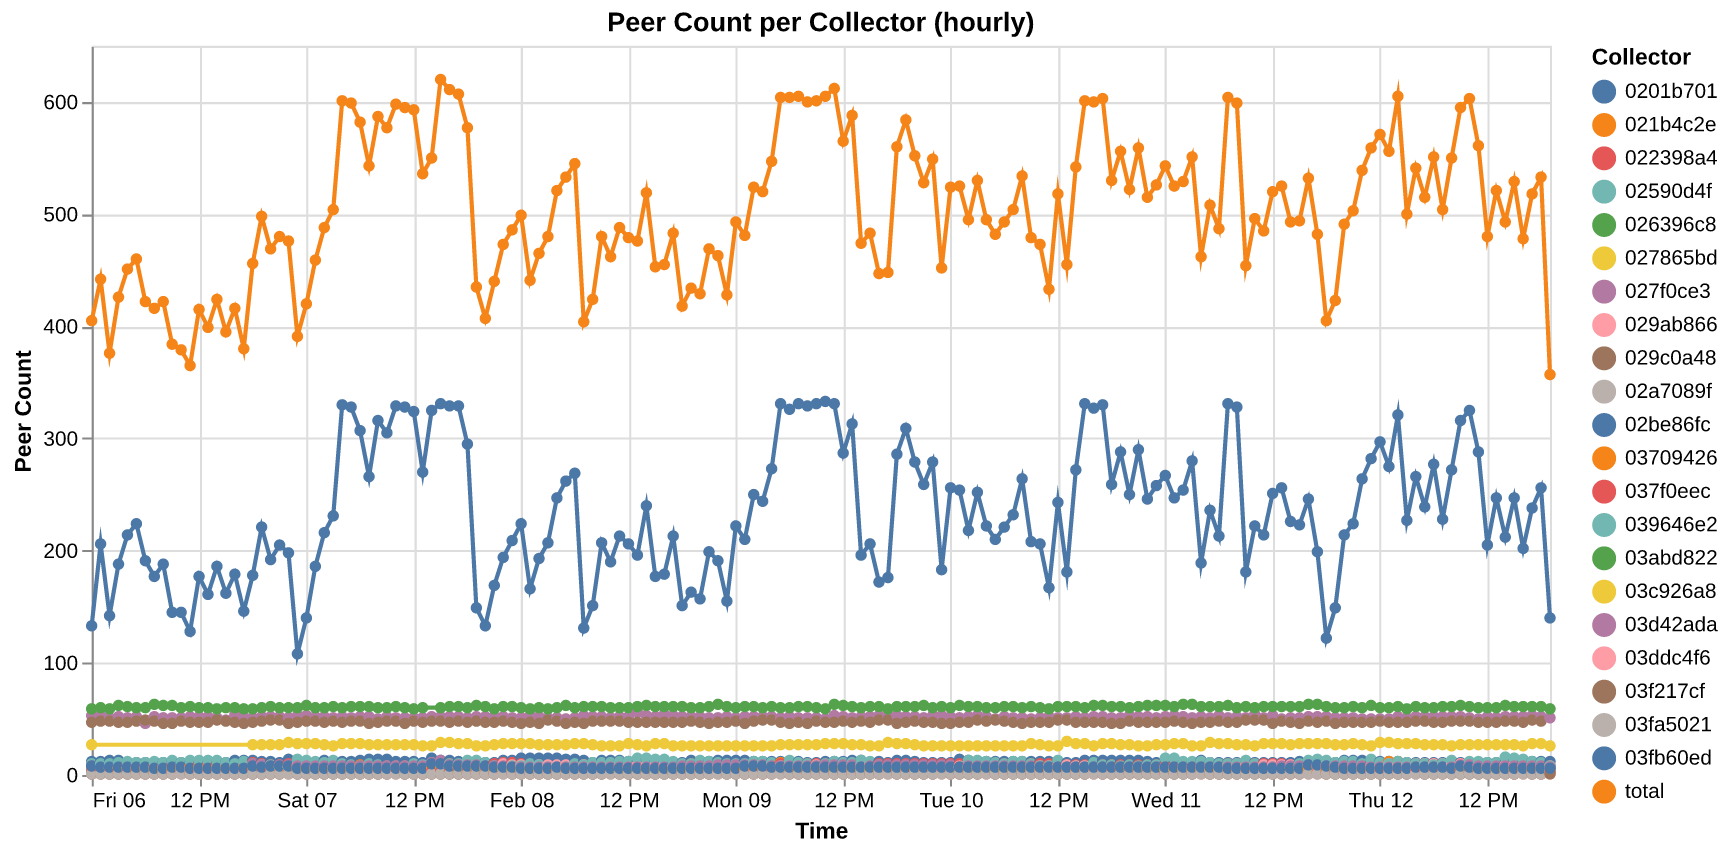
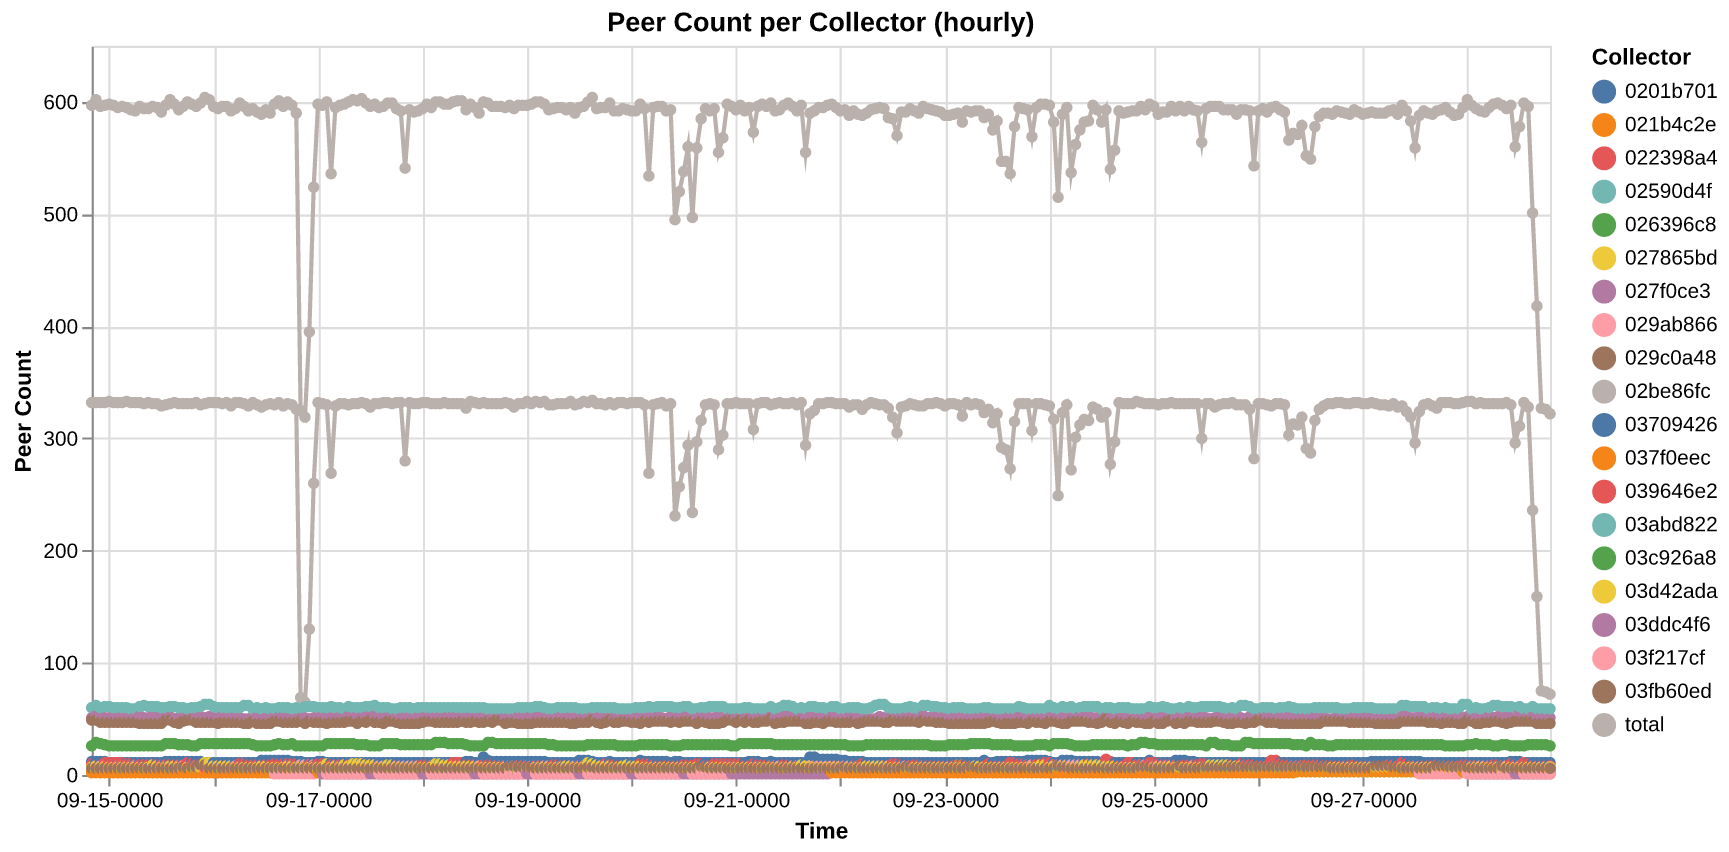
doc: update README + figures

Changed region(s): [[0.0312, 0.0915, 0.9994, 0.946]]

diff --git a/README.md b/README.md
@@ -1,108 +1,125 @@
 # Gossip Observer
 
 A project to collect LN gossip traffic and compute useful metrics to inform a set-reconciliation based protocol (Erlay-like) to replace message flooding.
+This project is inspired by earlier measurements of the LN gossip network<sup>[[1]](#ref-1)</sup>, simulations of alternative gossip behavior (spanning tree, set reconciliation)<sup>[[2]](#ref-2)</sup>, and work on adapting Minisketch for LN gossip<sup>[[3]](#ref-3)</sup>.
 
-This project is inspired by [earlier work](https://arxiv.org/abs/2205.12737v1) on measuring properties of the LN gossip network, and [more recent work](https://endothermic.dev/p/magical-minisketch) on adapting Minisketch for LN gossip messages.
+We've run ~20 collectors since February 2026. The collected data is [on Zenodo](https://doi.org/10.5281/zenodo.23111325),
+and is also used to compute various metrics you can find at <https://gossip-observer.jharveyb.xyz>. In parallel, work on a new gossip protocol is happening in this [draft BOLT](https://github.com/jharveyb/bolts/blob/gossip_minisketch_draft/bolt-gossip-minisketch.md) document; feedback welcome.
+
+## Data
+
+There are multiple options for accessing this dataset.
+
+- **Zenodo** (updated monthly): <https://doi.org/10.5281/zenodo.23111325>. 2026-02-05 to 2026-09-30, ~133 GB of compressed Parquet, one ZIP per table per month.
+- **S3 bucket** (updated daily): <https://observer-data.jharveyb.xyz/>, updated automatically and files are per-table per-day Parquet. Also stores the dumps of the collector's gossip graphs. Contact me for read-only credentials (Open an issue! Or use another channel).
+- **Metrics** (updated ad-hoc): <https://gossip-observer.jharveyb.xyz>. Convergence, unique message rates, bandwidth, channel open/close stats, graph size, anomalies, and more over 1-90 day windows. There are some CSVs here you can pull to get the input data for the figures.
+
+In general, collector nodes record the timestamp and sending peer of a received message, plus the decrypted message bytes.
+
+There are 5 tables: `timings` (one row per collector/peer/message receipt, µs timestamps; ~90% of the data), `messages` (raw bytes),
+`metadata` (message type, size, SCID, etc.), `message_hashes` (hash with and without timestamp field), and `message_first_seen`. `collectors.csv` lists our collectors and the channels they own.
+
+Schema, file layout, and query gotchas: [analysis/README.md](analysis/README.md). Packet captures of collector connections can be arranged, on request.
+
+If you use the data, please cite it; BibTeX is [below](#citing).
+For earlier gossip archives without per-peer timing, see the lnresearch topology dataset<sup>[[1]](#ref-1)</sup>. I also have comparable graph snapshots, but not published on Zenodo currently.
+
+## Results
+
+See the [metrics site](https://gossip-observer.jharveyb.xyz) for current numbers. Some highlights from the two weeks of 2026-09-15 to 2026-09-28,
+across 19 collectors with ~590 peer connections total:
+
+We received ~394k unique gossip messages per day, for a total size of ~85 MB/day (including signatures).
+
+### How long did it take a message to reach our peers?
+
+Delay from first receipt at any collector, capped at 1 hour, for messages sent to us by at least 100 peers. "Observer" is gossip created by us, from our own collectors' channels.
+The median is 140 s overall; node announcements are the slowest at 216 s.
+
+![Propagation Delay](analysis/diagrams/prop_delay_outer.png)
+
+### Over all SCIDs, how many channel updates per day were related to that SCID?
+
+87 of ~38k SCIDs (0.2%) averaged more than 50 updates/day, and sent 17.6% of all channel updates.
+
+![Updates per SCID](analysis/diagrams/scid_msg_count.png)
+
+Our first 23.5-hour run (Sept 2025, discussed on [Delving Bitcoin](https://delvingbitcoin.org/t/gossip-observer-new-project-to-monitor-the-lightning-p2p-network/2105)) is on the [`exported_data` branch](https://github.com/jharveyb/gossip_observer/tree/exported_data/data/mainnet/gossip_archives/dump_0926T195046), with charts in `query_results/0926T195046/`.
 
 ## Architecture
 
 ```mermaid
 graph TB
-    subgraph "Observer Node(s)"
-        C1[Collector]
+    subgraph "Observer Nodes"
+        C1[Collectors]
     end
-    
+
     subgraph "Data Pipeline"
         N[NATS Jetstream]
         A[Archiver]
-        D[DuckDB]
+        T[TimescaleDB]
     end
-    
-    subgraph "Lightning Network"
-        LN[P2P Gossip Network]
+
+    subgraph "Storage"
+        S3[Garage cluster]
+        Z[Zenodo]
     end
-    
+
+    LN[LN P2P Gossip Network]
+    CTRL[Controller]
+    M[Metrics site]
+
     LN <--> C1
-    
-    C1 -->|Tailscale| N
-    
+    CTRL <-->|Collector->Peer assignments| C1
+
+    C1 -->|Annotated messages| N
+    CTRL -->|Collector graph snapshots| S3
+
     N -->|Tailscale| A
-    A --> D
-    
+
+    A --> T
+    A -->|daily Parquet export| S3
+
+    S3 -->|monthly| Z
+    S3 --> M
+
     style C1 fill:#f9a,color:#fff
     style N fill:#bbf,color:#fff
-    style D fill:#bfb,color:#fff
+    style T fill:#bdb,color:#fff
 ```
 
-- The collector is a daemon that runs a forked version of ldk-node which does not forward gossip
-(it should still reply to gossip queries). It collects to a random set of nodes, and then forwards
-gossip messages to a NATS server. It runs for a fixed time period, set via config file.
+- The collector embeds a fork of ldk-node that logs every gossip message it receives with the sending peer and receive timestamp,
+and exports those to NATS. Some collectors have a channel, so we can watch our own gossip propagate by updating those channel fees regularly and generating new gossip messages.
 
-- The archiver applies some basic config to an already-running NATS server, creates a DuckDB database
-for storing gossip data from the collector, and batch wrties said data to the DB. The archiver MUST
-be started before the collector.
+- The controller assigns peers to collectors. Peers are spread across communities of the public graph (generated using nested SBM,
+see `query_results/`) rather than just the biggest nodes. It also tracks collector health and snapshots each collector's graph for archival.
 
-- Tailscale is used as a P2P VPN here due to convinience; Nebula or vanilla Wireguard would also work.
+- The archiver handles medium-term storage, receiving new data from NATS and writing to TimescaleDB. It also exports each day's data to Parquet files, uploads those to S3, and later drops old chunks from the DB. TimescaleDB is used here mostly for its compression, not for live queries.
 
-- Once data is collected, the DuckDB built-in UI can be used to run queries:
-
-```bash
-# This will grow the DB file by ~5x, but should speed up queries.
-./db_build_indices.sh $DB_FILENAME
-
-# The DuckDB UI can be resource-hungry; add limits to not affect other processes.
-systemd-run --scope -p MemoryMax=16G -p CPUQuota=50% --user duckdb -ui
-```
+- Tailscale is used as a P2P VPN here due to convenience; Nebula or vanilla Wireguard would also work.
 
 ## Layout
 
-gossip_analyze/ - Small CLI, mostly used to fetch peer specifiers.
+gossip_collector/, observer_controller/ - Explained above.
 
-gossip_archiver/ - Explained above. Also runs an actix-web server but that is mostly used for debug.
+gossip_archiver/ - Archiver daemon + `backfill_exports` CLI, for converting old exports to the current format.
 
-gossip_collector/ - Explained above.
+observer_common/ - Shared types, gRPC protos, S3 uploader.
 
-gossip_dump/ - Output dir for lists of node keys, channels, etc.
+analysis/ - DuckDB + Polars + Altair queries over the Parquet exports ([README](analysis/README.md)), and the
+metrics site pipeline ([gossip_metrics](analysis/gossip_metrics/README.md)).
 
-sql_queries.sql - SQL queries used in the DuckDB UI to analyze collected data. CSVs were exported manually from the UI.
+infra/ansible/ - Deployment playbooks ([README](infra/ansible/README.md), [DEPLOY.md](DEPLOY.md)) and instructions on how to access the Garage S3 bucket (once you have a key) ([DATA_SHARING.md](infra/ansible/DATA_SHARING.md)).
 
-query_results/ - CSV output of queries, and a small script to generate charts.
+query_results/ - Graph community detection ([notes](query_results/notes.md)) and older query output.
 
-Just is used to apply build config for Tokio console, though this is only needed for debugging
-async issues IMO.
-
-## Results
-
-Check out the presentation or charted results in `query_results/`.
-Here are some highlights from the latest collection run, which was 23.5 hours long with a peak of ~900 peers:
-
-We received a total of 416427 unique gossip messages, for a rate of ~295 messages/minute and a total size of ~103.2 MB (including signatures).
-
-#### How long did it take some percentage of the nodes we're connected to, to send us a message?
-
-![Convergence Delay](query_results/0926T195046/conv_delay_plot.png)
-
-#### How many peers sent us the same message?
-
-![Message Sender Distribution](query_results/0926T195046/peers_per_message_plot.png)
-
-#### For all SCIDs, how many channel updates were related to that SCID?
-
-![Updates per SCID](query_results/0926T195046/scid_frequency_plot.png)
-
-### Raw Data
-
-The data from that latest run is available on the `exported_data` branch, in the `data` folder:
-
-<https://github.com/jharveyb/gossip_observer/tree/exported_data/data/mainnet/gossip_archives/dump_0926T195046>
-
-You should be able to [import](https://duckdb.org/docs/stable/sql/statements/export#import-database) the data into a new DuckDB instance if you want to perform your own analysis.
+gossip_analyze/, electrum-cli/ - Small CLIs for peer lists, chain lookups, and graph dump validation.
 
 ### Development environment
 
-The full toolchain is declared in `flake.nix` and pinned by `flake.lock`:
-Rust, just, sqlx, etc. + the integration test version-pinned binaries.
-Also includes CLI tools like duckdb, rclone, etc.
+You can use the Nix flake, or see the commonly-used tools there.
+For development without the integration tests, you need Rust + `just` + `sqlx`.
+For data analysis and pulling Parquet from Garage, we suggest `duckdb` and `rclone`.
 
 - One-off shell: `nix develop`
 - Auto-load on cd: install [direnv](https://direnv.net) +
@@ -128,39 +145,17 @@ cargo test --workspace
 just integration-test
 ```
 
-### Usage
+### Running your own deployment
 
-- Install NATS: <https://docs.nats.io/running-a-nats-service/introduction/installation>
-
-- Update the NATS config, then start the NATS server:
-
-`nats-server -c nats_server.conf`
-
-You can monitor the server with nats-top, a different [CLI tool](https://docs.nats.io/using-nats/nats-tools), or the built-in [monitoring server](https://docs.nats.io/running-a-nats-service/nats_admin/monitoring).
-
-- Install TimescaleDB: <https://www.tigerdata.com/docs/self-hosted/latest/install>
-
-Set a password for the `postgres` user, set `$DATABASE_URL` in an `.env` file pointing to your TimescaleDB instance,
-and then create the database:
-
-`sqlx database setup`
-
-- Update the archiver settings in `gossip_archiver/src/main.rs`, rebuild, and start the archiver with the `.env` file present:
-
-`./target/debug/gossip_archiver`
-
-- Update the collector config in `config.ini` and start a collector:
-
-`./target/debug/gossip_collector`
-
-Once the collector shuts down, you should be able to safely shut down the archiver and NATS server.
+Everything is deployed with Ansible; [infra/ansible/README.md](infra/ansible/README.md) lists the playbooks in order
+(NATS → TimescaleDB → archiver → collectors → controller). `just integration-test` runs a controller + collector pair
+on regtest. Config is TOML (`*_config.toml`), overridable with env vars.
 
 ## TODOs
 
 - Add some support for using Core Lightning or LND as collectors.
-- Update DB write behavior to support receiving duplicate messages from a peer.
-- Sort out storage for continuous data collection.
-- Sort out scheduled jobs for running analytics.
+- Ingest ldk-node debug logs to monitor for peer churn or other behavior.
+- Add collectors that fully verify channel_announcements.
 - How can we detect interesting patterns, without knowing what we're looking for?
 
 ## Implementation Behavior
@@ -192,3 +187,44 @@ v0.1.5: Perform a full graph sync (via queries) with the first 5 peers we connec
 v0.13.0: Max 250 P2P connections from peers that aren't channel counterparties.
 Perform initial sync with 5 peers. For initial sync, prefer counterparties based
 on the value of the channels we have with them.
+
+## Citing
+
+```bibtex
+@misc{gossipobserver,
+  title = {Gossip Observer: Monitoring the {Lightning Network} {P2P} Gossip Network},
+  author = {Harvey-Buschel, Jonathan},
+  year = {2026},
+  howpublished = {\url{https://github.com/jharveyb/gossip_observer}},
+  note = {Accessed: 2026-10-21}
+}
+
+@dataset{harvey_buschel_2026_23111326,
+  author = {Harvey-Buschel, Jonathan},
+  title = {gossip-observer: {Bitcoin} {Lightning Network} {P2P} traffic capture, timing data, and related metadata},
+  month = oct,
+  year = 2026,
+  publisher = {Zenodo},
+  version = {2026.09},
+  doi = {10.5281/zenodo.23111326},
+  url = {https://doi.org/10.5281/zenodo.23111326}
+}
+
+@misc{bolt-minisketch-gossip,
+  title = {Extension {BOLT} {XX}: {Minisketch} Gossip},
+  author = {Harvey-Buschel, Jonathan},
+  year = {2026},
+  howpublished = {\url{https://github.com/jharveyb/bolts/blob/gossip_minisketch_draft/bolt-gossip-minisketch.md}},
+  note = {Draft specification. Accessed: 2026-10-21}
+}
+```
+
+Cite the version DOI for the data you used; [10.5281/zenodo.23111325](https://doi.org/10.5281/zenodo.23111325) refers to all versions.
+
+## References
+
+<a id="ref-1"></a>[1] Christian Decker. 2020. lnresearch/topology: Gossip Dataset 20201014. Dataset, Version 20201014. Zenodo. <https://doi.org/10.5281/zenodo.4088530>. Retrieved October 21, 2026 from <https://github.com/lnresearch/topology>
+
+<a id="ref-2"></a>[2] Niklas Gögge, Elias Rohrer, and Florian Tschorsch. 2022. On the Routing Convergence Delay in the Lightning Network. arXiv:2205.12737. <https://doi.org/10.48550/arXiv.2205.12737>
+
+<a id="ref-3"></a>[3] Alex Myers. 2022. Magical Minisketch and the Lightning Gossip Network. Talk at bitcoin++ (June 7, 2022). Retrieved October 21, 2026 from <https://endothermic.dev/p/magical-minisketch>

diff --git a/analysis/README.md b/analysis/README.md
@@ -138,7 +138,7 @@ formats to one shape. This section is for reading the files directly.
 ### Column changes
 
 | table | column | v1 | v2 |
-|---|---|---|---|
+| --- | --- | --- | --- |
 | timings | `hash`, `inner_hash` | 8-byte little-endian `BLOB` | `UBIGINT` |
 | timings | `collector`, `peer` | 66-char hex `VARCHAR` | 33-byte `BLOB` |
 | timings | `orig_timestamp` | `TIMESTAMPTZ` (µs) | `UINTEGER` (epoch seconds) |
